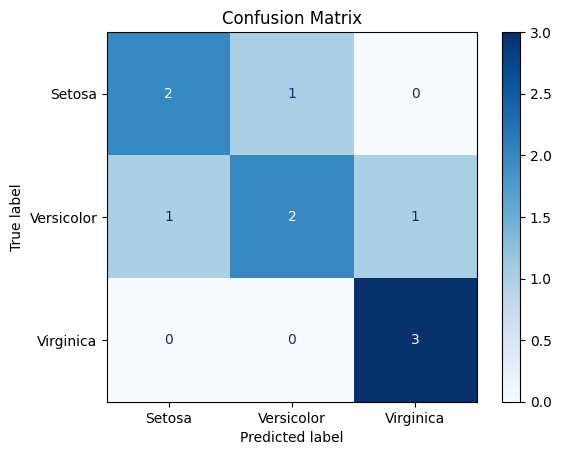
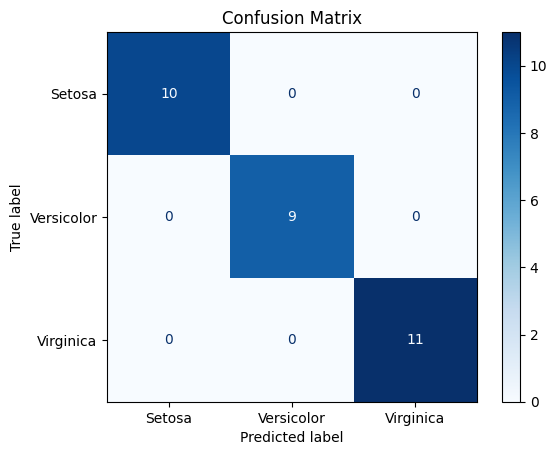
Commit
New corrected

diff --git a/src/train.py b/src/train.py
@@ -1,3 +1,7 @@
+import os 
+import joblib
+import matplotlib.pyplot as plt
+
 from sklearn.datasets import load_iris
 iris = load_iris()
 X = iris.data      # shape (150, 4)
@@ -23,13 +27,15 @@ model = DecisionTreeClassifier(max_depth=3, random_state=42)
 model.fit(X_train, y_train)
 y_pred2 = model.predict(X_test)
 print("k-NN accuracy:", accuracy_score(y_test, y_pred2))
-import os
-import matplotlib.pyplot as plt
+
 from sklearn.metrics import confusion_matrix, ConfusionMatrixDisplay
 
 # Example data — replace these with your own
-y_true = [0, 1, 2, 2, 0, 1, 1, 0, 2, 1]
-y_pred = [0, 0, 2, 2, 0, 1, 1, 1, 2, 2]
+# y_true = [0, 1, 2, 2, 0, 1, 1, 0, 2, 1]
+#  y_pred = [0, 0, 2, 2, 0, 1, 1, 1, 2, 2]
+y_true = y_test
+
+y_pred = model.predict(X_test)
 
 # Define class labels (replace with your actual class names)
 class_labels = [ 'Setosa', 'Versicolor', 'Virginica']
@@ -52,15 +58,14 @@ plt.close()
 
 print("✅ Confusion matrix saved as outputs/confusion_matrix.png")
 # SAve code
-import os
-import joblib
+
 
 # Example: assume you have a trained model (replace with your actual model)
 # e.g., from sklearn.ensemble import RandomForestClassifier
 # model = RandomForestClassifier().fit(X_train, y_train)
 
 # Make sure you have a trained model
-model = ...  # <-- your trained model object
+# model = ...  # <-- your trained model object
 
 # Ensure the outputs folder exists
 os.makedirs("outputs", exist_ok=True)
